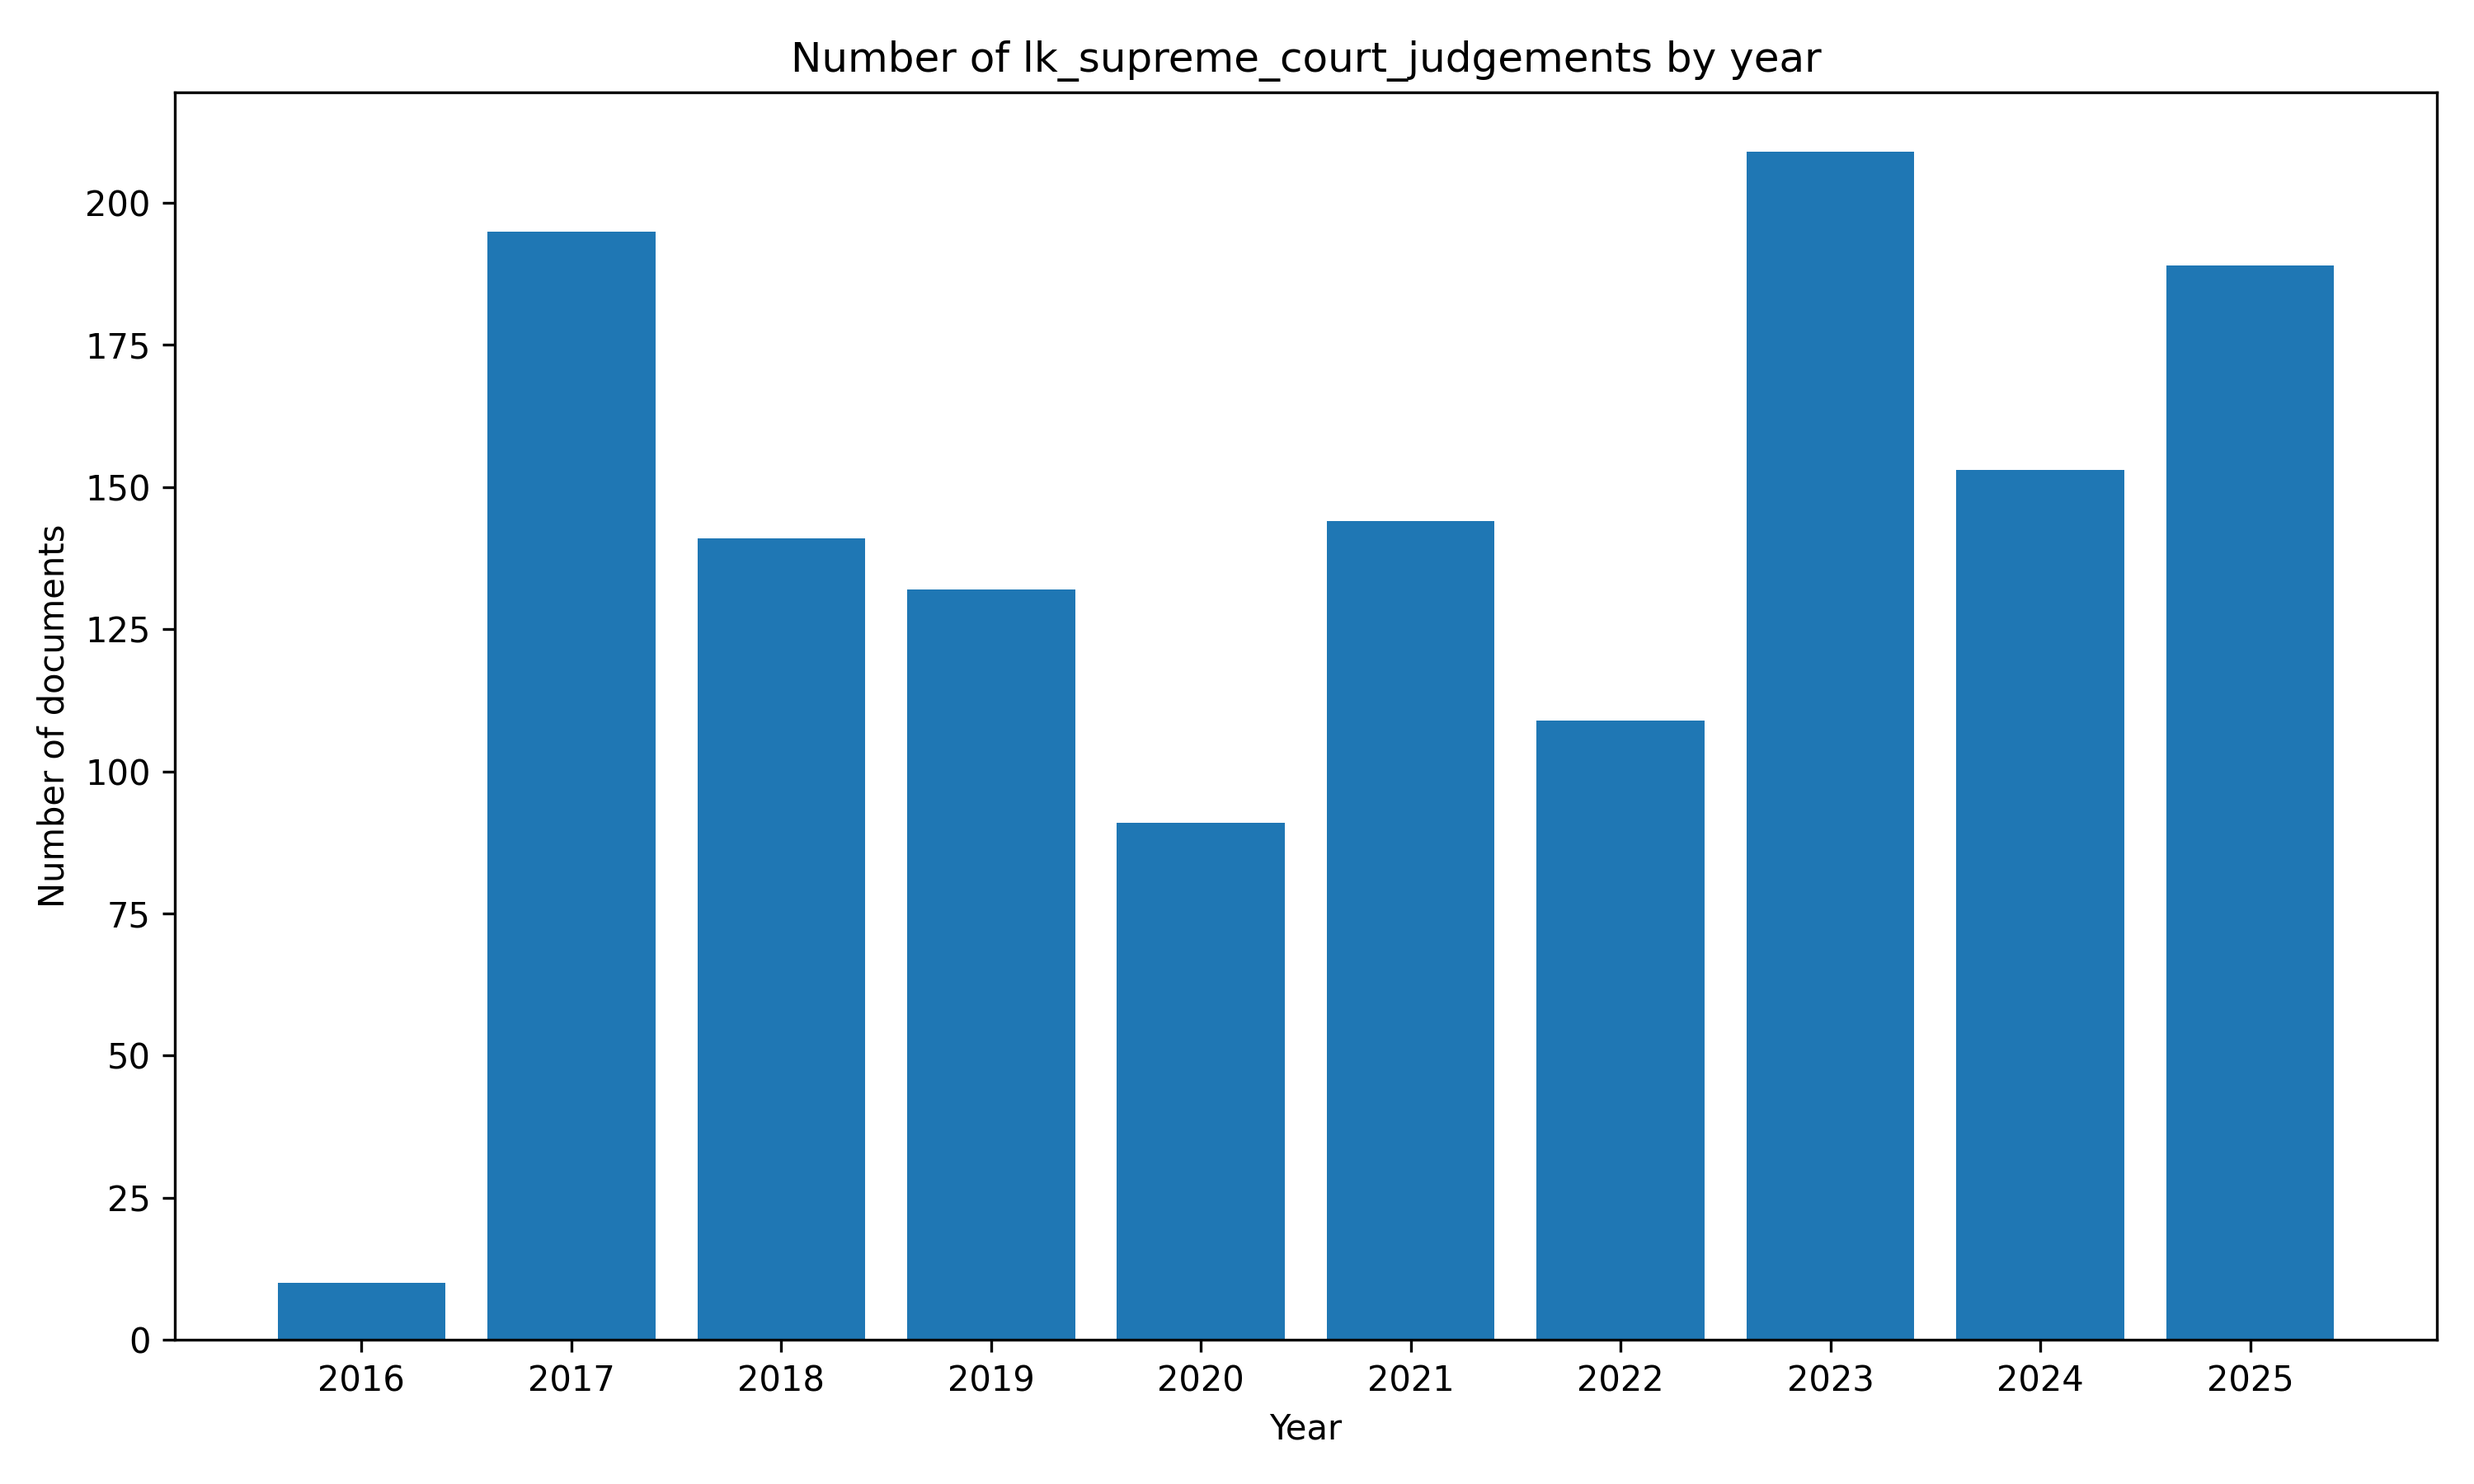
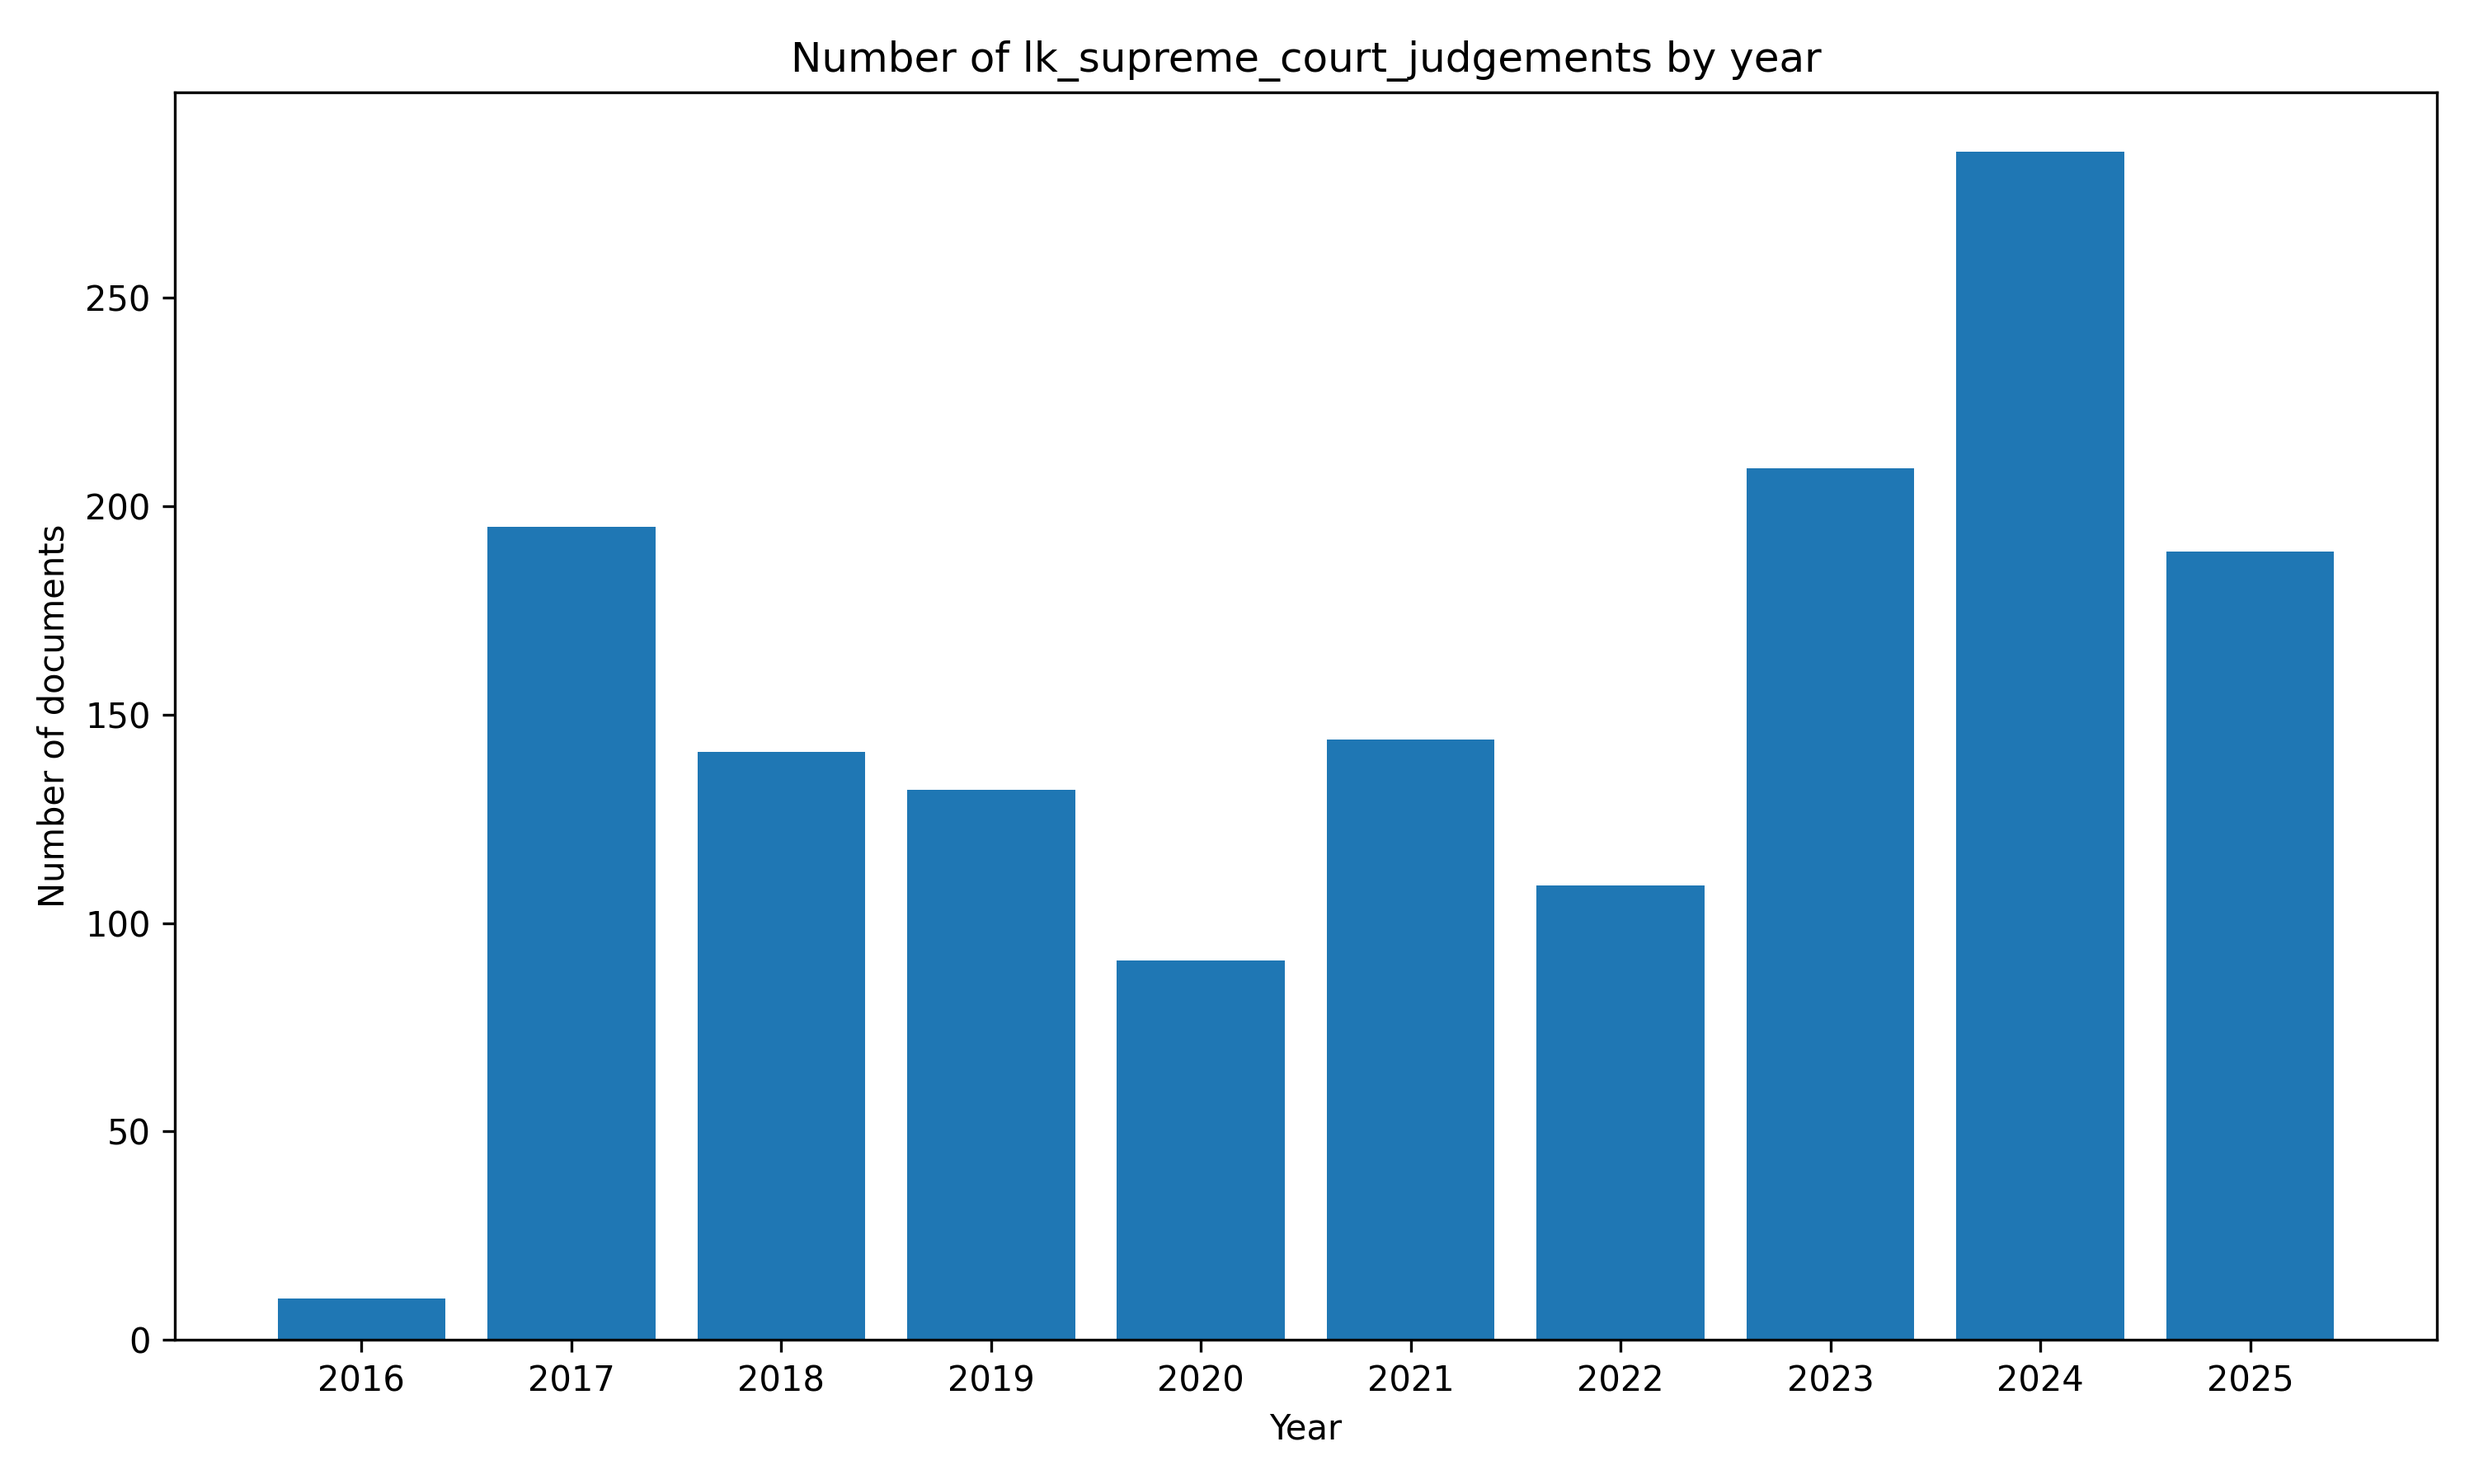
🤖 [pipeline.yml] 2025-09-18-0552

diff --git a/README.md b/README.md
@@ -1,11 +1,11 @@
 # 🇱🇰 #SriLanka Supreme Court Judgements `Dataset`
 
-![LastUpdated](https://img.shields.io/badge/last_updated-2025--09--18_10:48:58-green)
-![DatasetSize](https://img.shields.io/badge/dataset_size-0.3_GB-yellow)
+![LastUpdated](https://img.shields.io/badge/last_updated-2025--09--18_11:22:04-green)
+![DatasetSize](https://img.shields.io/badge/dataset_size-0.4_GB-yellow)
 
 [https://github.com/nuuuwan/lk_supreme_court_judgements](https://github.com/nuuuwan/lk_supreme_court_judgements)
 
-📜 [**1,373** documents](https://github.com/nuuuwan/lk_supreme_court_judgements/tree/data) (**0.3 GB**), from **2016-07-22** to **2025-09-17**, scraped from **[https://supremecourt.lk/judgements/](https://supremecourt.lk/judgements/)**
+📜 [**1,505** documents](https://github.com/nuuuwan/lk_supreme_court_judgements/tree/data) (**0.4 GB**), from **2016-07-22** to **2025-09-17**, scraped from **[https://supremecourt.lk/judgements/](https://supremecourt.lk/judgements/)**
 
 📑 In JSON, PDF, TXT and 🤗 Hugging Face Formats
 
@@ -17,7 +17,7 @@
 
 ...
 
-*📒 PDFs have been downloaded for **381** (**28%**) documents*
+*📒 PDFs have been downloaded for **382** (**25%**) documents*
 
 🪲 #WorkInProgress - Suggestions, Questions, Ideas, & [Bug Reports](https://github.com/nuuuwan/lk_supreme_court_judgements/issues) are welcome!
 
